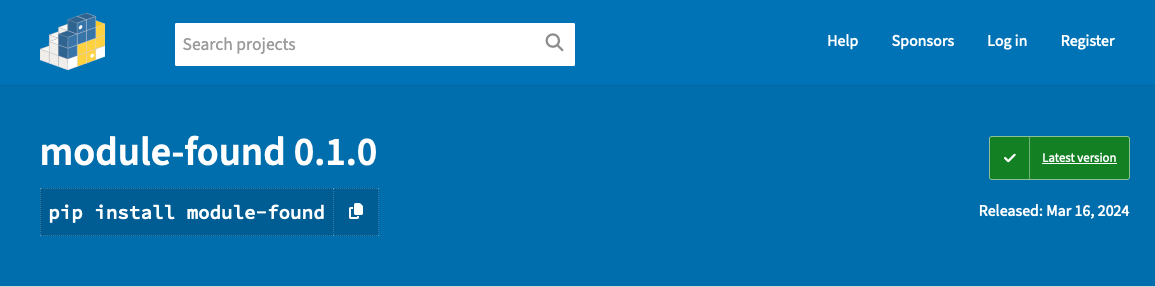
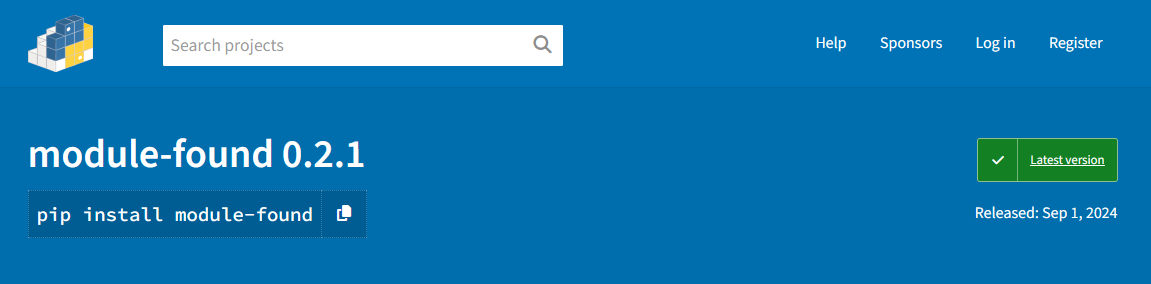
final changes

diff --git a/slidev.config.js b/slidev.config.js
@@ -1,0 +1,8 @@
+import { defineConfig } from 'slidev';
+
+export default defineConfig({
+  themeConfig: {
+    colorMode: 'light',
+  },
+});
+

diff --git a/slides.md b/slides.md
@@ -181,10 +181,13 @@ class: text-center
 Locations where the `PathFinder` searches for packages/modules
 
 Inside a virtual environment
+
 ```python
 import sys
 sys.path
 ```
+<v-click>
+
 ```markdown
 ['',
  '/Library/Frameworks/Python.framework/Versions/3.8/lib/python38.zip',
@@ -192,6 +195,8 @@ sys.path
  '/Library/Frameworks/Python.framework/Versions/3.8/lib/python3.8/lib-dynload',
  '/Users/loz/projects/hacking_import/env/lib/python3.8/site-packages']
 ```
+
+</v-click>
 
 <!--Inside the virtual environment the default site-packages directory of the os and user is replaced with the virtual environment site packages folder-->
 <!--Packages installed in editable mode will also appear in sys.path-->
@@ -252,10 +257,20 @@ class PathFinder:
 ---
 
 # Extending standard imports
+We have already seen everything needed to understand how to extend the import system
+
+<v-click>
 
 - Create a Finder with the `find_spec` function
 - Create a Loader with the `create_module` and `exec_module` functions
+
+<v-click>
+
 - Add the Finder to `sys.meta_path`
+
+</v-click>
+
+</v-click>
 
 
 ---
@@ -272,7 +287,7 @@ Solution: Create a new finder - for packages that are not found with the standar
 ---
 
 # RPyC Finder
-```python {all|7-8|10-17|20|all}
+```python {all|7-8|5,10-17|20|all}
 import rpyc
 import sys
 import importlib
@@ -319,19 +334,30 @@ class RPyCLoader(importlib.abc.Loader):
 ---
 
 # Module Found
+Don't try this at home!
+
 <br/>
 
-Problem: Python doesn't find the modules I ask it to
+Problem: Python doesn't find the modules I ask it to. Whether it was not installed, a spelling mistake in the name or the module just doesn't exist.
 
 <v-click>
+
 Solution: AI
+
+<v-click>
+
+Use Open AI API to generate module functions as they are being called
+
+</v-click>
+
 </v-click>
 
 ---
 
 # AI Finder
+No, really... I'm not joking!
 
-```python {all|4|6-11}
+```python {all|4|1,6-11}
 DISALLOWED_MODULES = ["apport_python_hook", "sitecustomize", "usercustomize"]
 class AiFinder():  # pylint: disable=too-few-public-methods
     def __init__(self, api_key: str) -> None:
@@ -348,6 +374,7 @@ class AiFinder():  # pylint: disable=too-few-public-methods
 ---
 
 # AI Loader
+For your safety, don't do this...
 
 
 ```python {all|1,7-8}
@@ -365,12 +392,23 @@ class AiLoader():
 ```
 
 ---
+layout: cover
+class: text-center
+---
+
+# Module Found Demo
+Seriously, DON'T try this at home... Like, ever!
+
+---
 
 # Module Found on PyPI
+Alright, here's how you do it at home...
+
 <br/>
 
 
 ![pypi](/module_found_pypi.png)
+
 <br />
 
 https://pypi.org/project/module-found/
